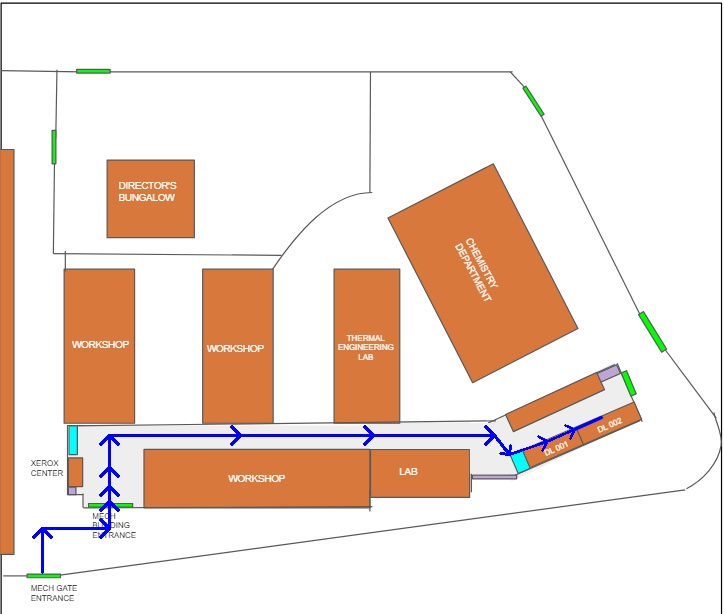
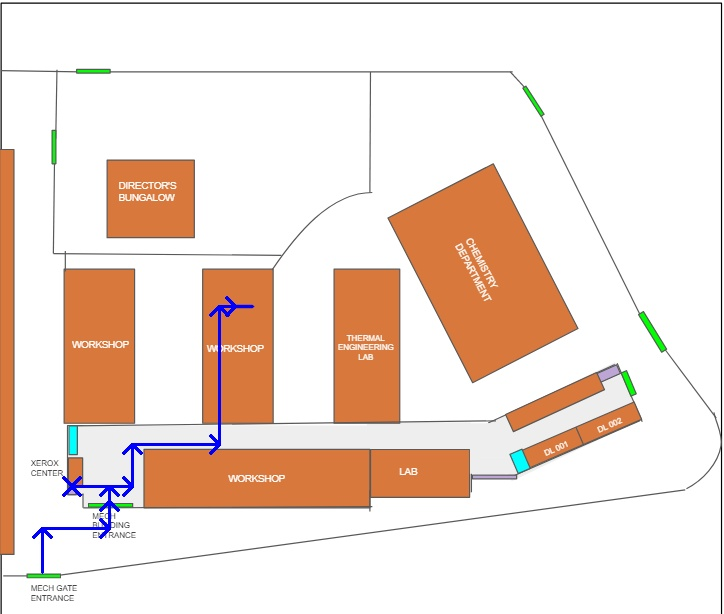
UPDATED WITH FLOOR NAV

Changed region(s): [[0.0912, 0.4642, 0.8204, 0.8046]]

diff --git a/Graph.py b/Graph.py
@@ -159,11 +159,28 @@ class Graph():
                 y3 = self.nodes[path[i]].y
 
                 # Very special case of mech building passage which is slant.
-                if path[i - 1] in range(33, 40) and path[i] in range(34, 41):
+                if (path[i - 1] in range(33, 40) and path[i] in range(34, 41)) or (path[i-1] in range(48,52) and path[i] in range(48,52)):
                     if (path[i - 1] == 33):
                         directions.append('Slight right')
                     else:
                         directions.append('Straight')
+
+                elif nodes[path[i-1]].name=='staircase' and nodes[path[i]].name == 'staircase' and nodes[path[i]].floor != nodes[path[i-1]].floor:
+                    floor = ""
+                    if(nodes[path[i]].floor==1):
+                        floor = "first"
+                    elif nodes[path[i]].floor==2:
+                        floor = "second"
+                    elif nodes[path[i]].floor==3:
+                        floor = "third"
+                    elif nodes[path[i]].floor==0:
+                        floor = "ground"
+                    directions_text += f' Now, use the staircase to go to the {floor} floor.'
+                    continue
+
+                elif nodes[path[i - 2]].name == 'staircase' and nodes[path[i-1]].name == 'staircase' and nodes[path[i-1]].floor != nodes[path[i - 2]].floor:
+                    directions_text += " Walk straight."
+                    continue
 
                 elif(x2>x1 and y1==y2):
                     if(y3>y2 and x2==x3):
@@ -215,10 +232,6 @@ class Graph():
 
                 else:
                     directions.append('Check em else')
-
-
-
-
 
                 if(directions[-1]=='Straight'):
                     if directions[-2]!='Straight':
@@ -344,7 +357,7 @@ def getPath(destination,source):
 
 
 nodes,map_node = initialize_map('nodes.json')
-graph = Graph(40, nodes)
+graph = Graph(len(nodes), nodes)
 graph.addAllEdges('edges-temp.csv')
 
 # getPath("Comps dept","Staircase main bldg/statue")
@@ -360,7 +373,10 @@ graph.addAllEdges('edges-temp.csv')
 # TESTCASES FOR MAP #3
 # print(getPath( "Xerox Center","Mech Gate"))
 # print(getPath("Inside workshop #1", "Mech Building Entrance"))
-print(getPath( "DL002", "Mech Gate"))
+#print(getPath( "DL002", "Mech Gate"))
+
+# TESTCASES FOR MAP #4
+print(getPath("Main Seminar Hall", "Mech Gate"))
 
 """
 getPath("Comps dept","Staircase main bldg/statue")
